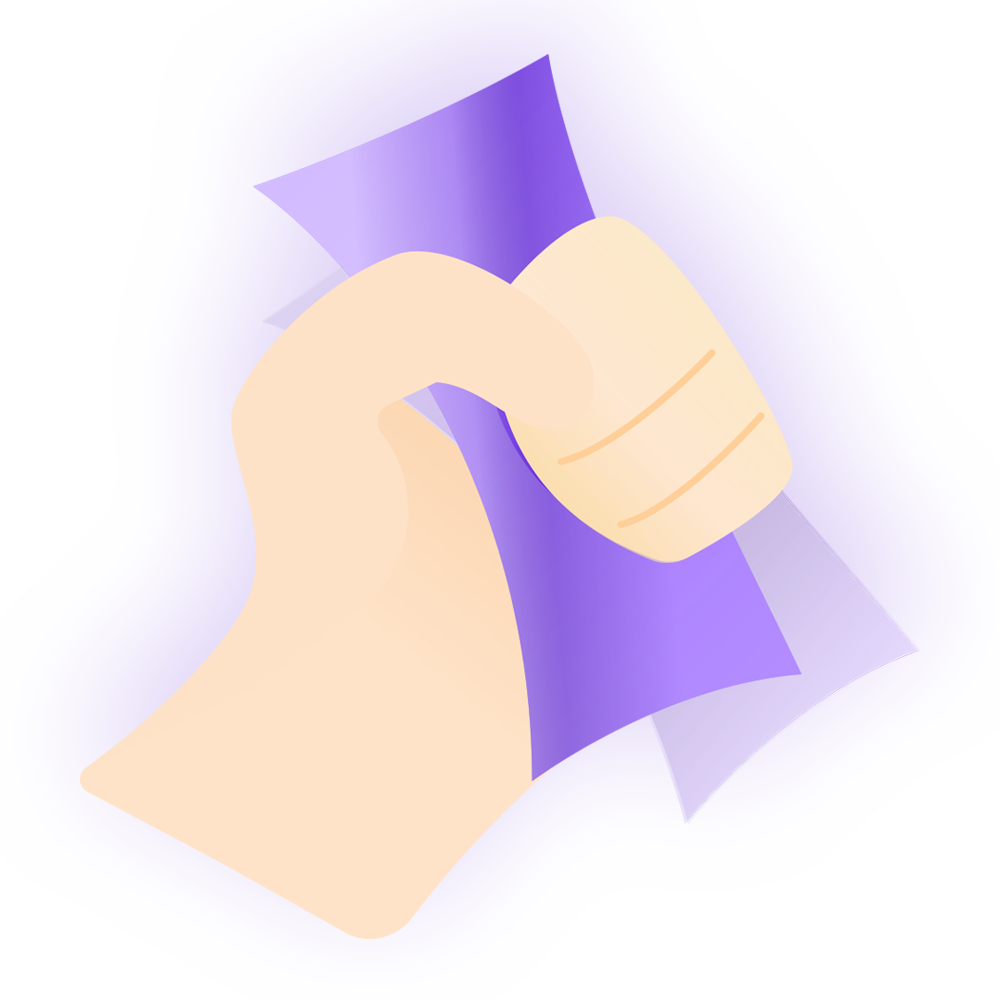
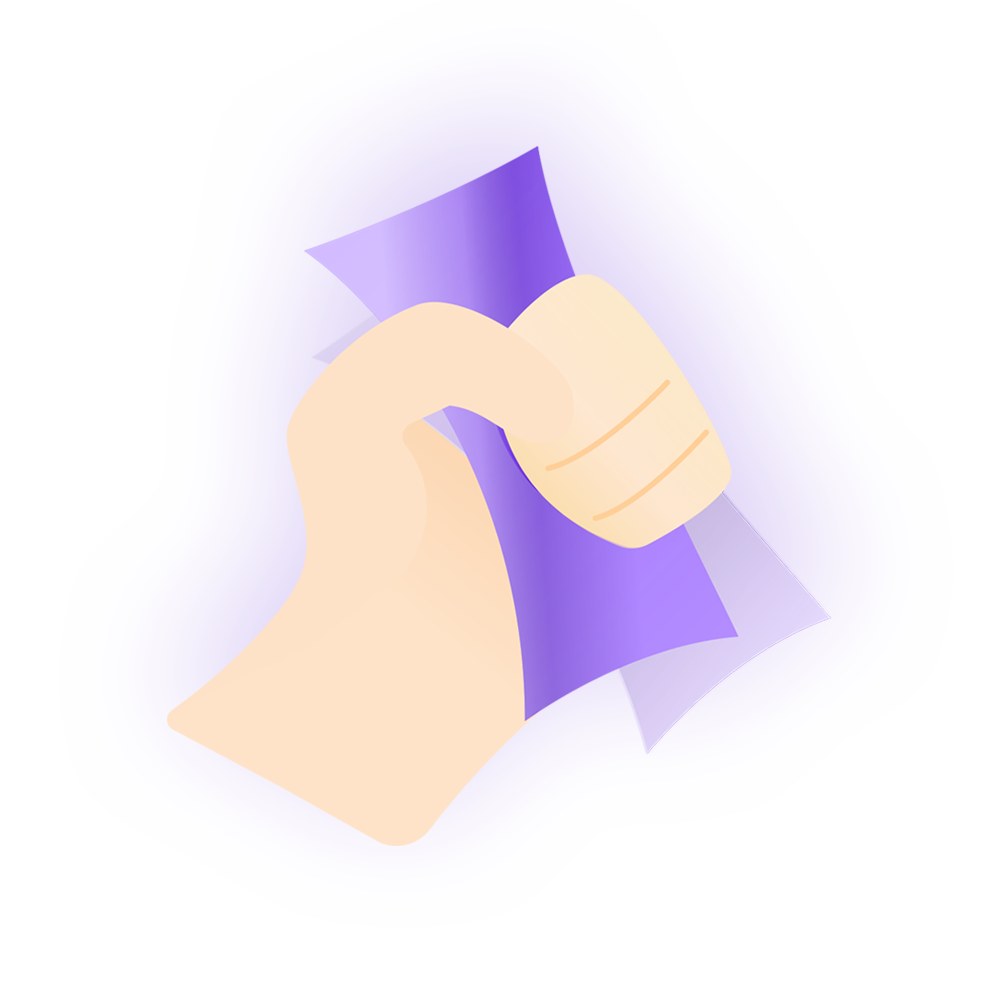
Update verify email

diff --git a/lib/login_page/reset_password.dart b/lib/login_page/reset_password.dart
@@ -1,5 +1,6 @@
 import 'package:flutter/material.dart';
 import 'package:firebase_auth/firebase_auth.dart';
+import 'package:hello_world/login_page/reset_password_email.dart';
 
 import '../main.dart';
 
@@ -23,6 +24,9 @@ class ResetPasswordState extends State<ResetPassword> {
       await auth.sendPasswordResetEmail(email: _emailController.text);
       setState(() {
         success = 1;
+        Navigator.of(context).push(
+            MaterialPageRoute(builder: (context) => ResetPasswordEmail(email: _emailController.text))
+        );
       });
     } on FirebaseAuthException catch (e) {
       setState(() {
@@ -40,12 +44,12 @@ class ResetPasswordState extends State<ResetPassword> {
         backgroundColor: Colors.white,
         elevation: 0,
         leading: IconButton(
-          icon: const Icon(Icons.arrow_back,color: Colors.black,),
+          icon: const Icon(Icons.arrow_back, color: Colors.black,),
           onPressed: () {
             Navigator.of(context).pop();
           },
         ),
-        centerTitle: true ,
+        centerTitle: true,
         title: const Text("Forget Password",
           textAlign: TextAlign.center,
           style: TextStyle(
@@ -58,22 +62,20 @@ class ResetPasswordState extends State<ResetPassword> {
       resizeToAvoidBottomInset: false,
       body: Column(
           crossAxisAlignment: CrossAxisAlignment.start,
-          children: <Widget>[
-            Stack(
-              children: <Widget>[
-                Container(
-                  alignment: Alignment.center,
-                  padding: const EdgeInsets.fromLTRB(20, 100, 20, 0),
-                  child: const Text(
-                      "Don’t worry. \nEnter your email and we’ll send you a link to reset your password.",
-                      style: TextStyle(
-                        fontSize: 30, fontWeight: FontWeight.bold,
-                      )
-                  ),
-                )
-              ],
+          children: [
+            Container(
+              color:Colors.white,
+              alignment: Alignment.center,
+              padding: const EdgeInsets.fromLTRB(20, 100, 20, 0),
+              child: const Text(
+                  "Don’t worry. \nEnter your email and we’ll send you a link to reset your password.",
+                  style: TextStyle(
+                    fontSize: 30, fontWeight: FontWeight.bold,
+                  )
+              ),
             ),
             Container(
+              color:Colors.white,
               padding: const EdgeInsets.only(top: 50, left: 20, right: 30),
               child: Column(
                 children: <Widget>[
@@ -83,11 +85,12 @@ class ResetPasswordState extends State<ResetPassword> {
                       hintText: "Email",
                       enabledBorder: OutlineInputBorder(
                         borderRadius: BorderRadius.circular(15),
-                        borderSide: const BorderSide(color: Colors.grey,width: 0),
+                        borderSide: const BorderSide(
+                            color: Colors.grey, width: 0),
                       ),
                       focusedBorder: OutlineInputBorder(
                         borderRadius: BorderRadius.circular(15),
-                        borderSide:  BorderSide(color: Colors.grey.shade900),
+                        borderSide: BorderSide(color: Colors.grey.shade900),
                       ),
                     ),
                     style: const TextStyle(fontSize: 20),
@@ -99,8 +102,6 @@ class ResetPasswordState extends State<ResetPassword> {
                       child: Text(
                         success == 0
                             ? ''
-                            : (success == 1)
-                            ? 'Send request successfully!'
                             : error,
                         style: const TextStyle(
                             color: Colors.red),

diff --git a/lib/login_page/verify_email.dart b/lib/login_page/verify_email.dart
@@ -3,7 +3,9 @@ import 'dart:async';
 import 'package:firebase_auth/firebase_auth.dart';
 import 'package:flutter/material.dart';
 import 'package:hello_world/home_page.dart';
+import 'package:hello_world/login_page/login_page.dart';
 import '../back_end/moma_user.dart';
+import '../main.dart';
 
 // ignore: must_be_immutable
 class VerifyScreen extends StatefulWidget {
@@ -39,13 +41,75 @@ class VerifyScreenState extends State<VerifyScreen> {
   @override
   Widget build(BuildContext context) {
     return Scaffold(
-      body: Center(
-        child: Text(
-            'An email has been sent to ${user.email} please verify'),
-      ),
-    );
+        resizeToAvoidBottomInset: false,
+        body: Container(
+          padding: const EdgeInsets.only(bottom: 230),
+          color: Colors.white,
+          child: Column(
+            mainAxisAlignment: MainAxisAlignment.start,
+            crossAxisAlignment: CrossAxisAlignment.center,
+            children: [
+              const SizedBox(height: 20,),
+              Image.asset(
+                'assets/images/illustrations4.png',
+                fit: BoxFit.cover,
+                width: 450,
+              ),
+              const SizedBox(height: 10,),
+              Container(
+                padding: const EdgeInsets.symmetric(horizontal: 30),
+                child: const Text(
+                  'Your email is on the way',
+                  style: TextStyle(
+                    fontSize: 25,
+                    fontWeight: FontWeight.bold,
+                  ),
+                  textAlign: TextAlign.center,
+                ),
+              ),
+              const SizedBox(height: 30,),
+              Container(
+                padding: const EdgeInsets.symmetric(horizontal: 20),
+                child: Text(
+                  'Check your email ${user
+                      .email} follow the instructions to verify your email',
+                  style: TextStyle(
+                    color: Colors.teal.shade700,
+                    fontSize: 18,
+                  ),
+                  textAlign: TextAlign.center,
+                ),
+              ),
+            ],
+          ),
+        ),
+        bottomSheet: Container(
+            color: Colors.white,
+            padding: const EdgeInsets.symmetric(vertical: 20),
+            height: 100,
+            child: Center(
+                    child: ElevatedButton(
+                      style: ElevatedButton.styleFrom(
+                        backgroundColor: const Color(0xff7f3dff),
+                        minimumSize: const Size(370, 65),
+                        shape: shape,
+                      ),
+                      onPressed: () {
+                        Navigator.of(context).push(
+                            MaterialPageRoute(builder: (context) => LoginPage())
+                        );
+                      },
+                      child: const Text(
+                        "Back to Login",
+                        style: TextStyle(
+                          fontSize: 20,
+                          fontWeight: FontWeight.bold,
+                        ),
+                      )
+                  ),)
+            )
+        );
   }
-
   Future<void> checkEmailVerified() async {
     user = auth.currentUser;
     await user.reload();

diff --git a/lib/login_page/reset_password_email.dart b/lib/login_page/reset_password_email.dart
@@ -1,0 +1,81 @@
+import 'package:flutter/material.dart';
+
+import '../main.dart';
+import 'login_page.dart';
+
+class ResetPasswordEmail extends StatelessWidget {
+  String email;
+
+  ResetPasswordEmail({Key key,this.email}) : super(key: key);
+
+  @override
+  Widget build(BuildContext context) {
+    return Scaffold(
+        resizeToAvoidBottomInset: false,
+        body: Container(
+          color: Colors.white,
+          child: Column(
+            mainAxisAlignment: MainAxisAlignment.start,
+            crossAxisAlignment: CrossAxisAlignment.center,
+            children: [
+              const SizedBox(height: 20,),
+              Image.asset(
+                'assets/images/illustrations4.png',
+                fit: BoxFit.cover,
+                width: 450,
+              ),
+              const SizedBox(height: 10,),
+              Container(
+                padding: const EdgeInsets.symmetric(horizontal: 30),
+                child: const Text(
+                  'Your email is on the way',
+                  style: TextStyle(
+                    fontSize: 25,
+                    fontWeight: FontWeight.bold,
+                  ),
+                  textAlign: TextAlign.center,
+                ),
+              ),
+              const SizedBox(height: 30,),
+              Container(
+                padding: const EdgeInsets.symmetric(horizontal: 50),
+                child: Text(
+                  'Check your email ${this.email} follow the instructions to verify your password',
+                  style: TextStyle(
+                    color: Colors.teal.shade700,
+                    fontSize: 18,
+                  ),
+                  textAlign: TextAlign.center,
+                ),
+              )
+            ],
+          ),
+        ),
+        bottomSheet: Container(
+            color: Colors.white,
+            padding: const EdgeInsets.symmetric(vertical: 20),
+            height: 100,
+            child: Center(
+              child: ElevatedButton(
+                  style: ElevatedButton.styleFrom(
+                    backgroundColor: const Color(0xff7f3dff),
+                    minimumSize: const Size(370, 65),
+                    shape: shape,
+                  ),
+                  onPressed: () {
+                    Navigator.of(context).push(
+                        MaterialPageRoute(builder: (context) => LoginPage())
+                    );
+                  },
+                  child: const Text(
+                    "Back to Login",
+                    style: TextStyle(
+                      fontSize: 20,
+                      fontWeight: FontWeight.bold,
+                    ),
+                  )
+              ),)
+        )
+    );
+  }
+}

diff --git a/lib/introduction_page/introduction_pageview.dart b/lib/introduction_page/introduction_pageview.dart
@@ -32,13 +32,11 @@ class _IntroductionPageViewState extends State<IntroductionPageView> {
           mainAxisAlignment: MainAxisAlignment.spaceEvenly,
           crossAxisAlignment: CrossAxisAlignment.center,
           children: [
-            const SizedBox(height: 40,),
             Image.asset(
               urlImage,
               fit: BoxFit.cover,
-              width: 350,
+              width: 450,
             ),
-            const SizedBox(height: 10,),
             Container(
               padding: const EdgeInsets.symmetric(horizontal: 50),
               child: Text(
@@ -50,7 +48,6 @@ class _IntroductionPageViewState extends State<IntroductionPageView> {
                 textAlign: TextAlign.center,
               ),
             ),
-            const SizedBox(height: 10,),
             Container(
               padding: const EdgeInsets.symmetric(horizontal: 50),
               child: Text(
@@ -90,7 +87,6 @@ class _IntroductionPageViewState extends State<IntroductionPageView> {
                 title: 'Planning ahead',
                 subtitle: 'Setup your budget for each category so you in control'
             ),
-
           ],
         ),
       ),
@@ -125,7 +121,7 @@ class _IntroductionPageViewState extends State<IntroductionPageView> {
             ElevatedButton(
                 style: ElevatedButton.styleFrom(
                   backgroundColor: const Color(0xff7f3dff),
-                  minimumSize: const Size(380,56),
+                  minimumSize: const Size(370,56),
                   shape: shape,
                 ),
                 onPressed: () {
@@ -144,7 +140,7 @@ class _IntroductionPageViewState extends State<IntroductionPageView> {
                 style: ElevatedButton.styleFrom(
                   foregroundColor: const Color(0xff7f3dff),
                   backgroundColor: Colors.grey.shade300,
-                  minimumSize: const Size(380,56),
+                  minimumSize: const Size(370,56),
                   shape: shape,
                 ),
                 onPressed: () {
@@ -158,8 +154,6 @@ class _IntroductionPageViewState extends State<IntroductionPageView> {
                       fontWeight: FontWeight.bold
                   ),)
             ),
-
-
           ],
         ),
       ),

diff --git a/lib/login_page/sign_up.dart b/lib/login_page/sign_up.dart
@@ -1,5 +1,6 @@
 import 'package:firebase_auth/firebase_auth.dart';
 import 'package:flutter/material.dart';
+import 'package:hello_world/login_page/login_page.dart';
 import 'package:hello_world/login_page/verify_email.dart';
 
 import '../firebase.dart';
@@ -50,7 +51,9 @@ class SignupPageState extends State<SignupPage> {
           leading: IconButton(
             icon: const Icon(Icons.arrow_back,color: Colors.black,),
             onPressed: () {
-              Navigator.of(context).pop();
+              Navigator.of(context).pushReplacement(
+                MaterialPageRoute(builder: (context)=>LoginPage())
+              );
             },
           ),
           centerTitle: true ,

diff --git a/lib/main.dart b/lib/main.dart
@@ -1,6 +1,7 @@
 import 'package:flutter/material.dart';
 import 'package:hello_world/home_page.dart';
 import 'package:firebase_core/firebase_core.dart';
+import 'package:hello_world/login_page/verify_email.dart';
 import 'back_end/moma_user.dart';
 import 'introduction_page/introduction_pageview.dart';
 

diff --git a/lib/login_page/login_page.dart b/lib/login_page/login_page.dart
@@ -192,7 +192,6 @@ class _LoginPageState extends State<LoginPage> {
                     )
                   ],
                 ),
-
               ],
             ),
           )
